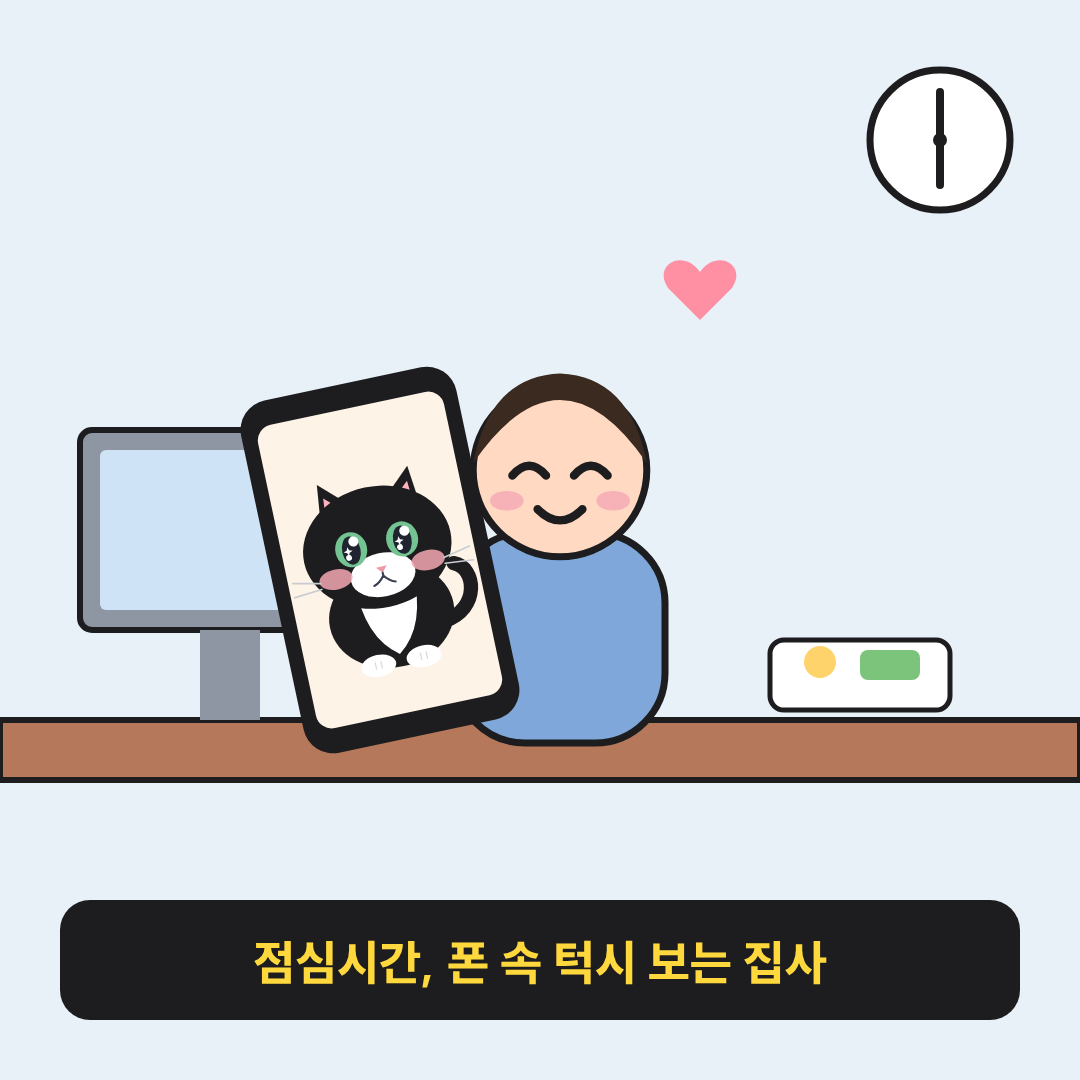
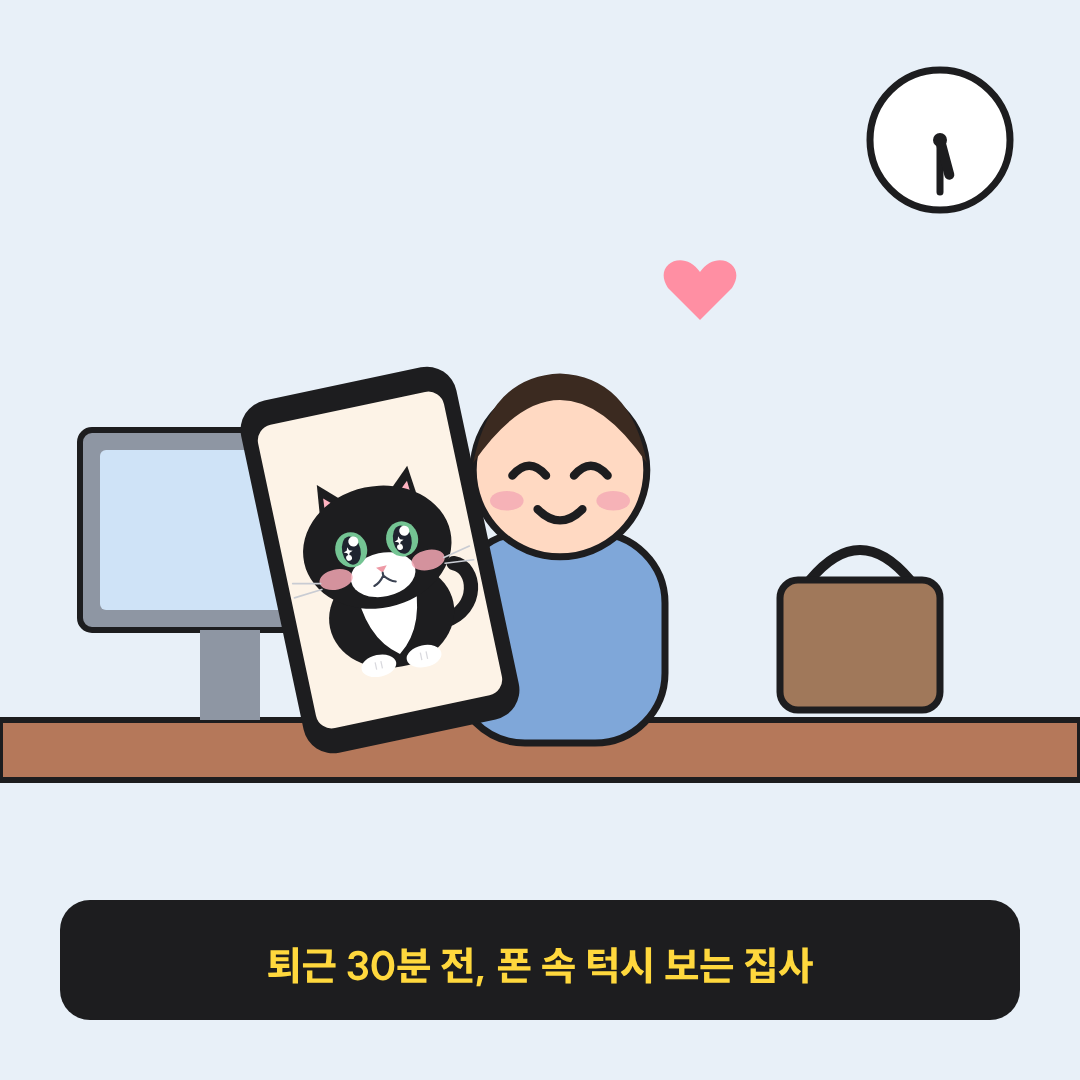
ep20: switch to just-before-leaving-work timing
Claude-Session: https://claude.ai/code/session_01ATNo1qDAA9qFJoR3V8USGH

Changed region(s): [[0.2444, 0.8556, 0.7639, 0.9167], [0.7028, 0.4889, 0.8861, 0.6722], [0.8556, 0.0917, 0.8861, 0.1833]]

diff --git a/scripts/toon/cat3-ep20.js b/scripts/toon/cat3-ep20.js
@@ -251,6 +251,10 @@ const desk = `<rect x="80" y="660" width="920" height="40" rx="10" fill="#b5785a
 const lamp = `<path d="M960 660 V420 l-80 -40" stroke="${INK}" stroke-width="12" fill="none"/><path d="M840 360 l80 40 l-40 50Z" fill="#ffd83d" stroke="${INK}" stroke-width="6"/>`;
 
 // ep20 같은 시간, 다른 장소
+function bag(x, y) {
+  return `<g transform="translate(${x},${y})"><path d="M-50 -60 q50 -60 100 0" stroke="${INK}" stroke-width="10" fill="none"/>
+    <rect x="-80" y="-60" width="160" height="130" rx="18" fill="#a0785a" stroke="${INK}" stroke-width="7"/></g>`;
+}
 function happyHead(x, y, s, shirt) {
   return `<g transform="translate(${x},${y}) scale(${s})">
     <rect x="-75" y="45" width="150" height="150" rx="50" fill="${shirt}" stroke="${INK}" stroke-width="5"/>
@@ -269,19 +273,18 @@ function catPhone(x, y, r) {
 const officeDesk = `<rect x="0" y="720" width="1080" height="60" fill="#b5785a" stroke="${INK}" stroke-width="6"/>
   <rect x="80" y="430" width="300" height="200" rx="12" fill="#8e96a3" stroke="${INK}" stroke-width="6"/>
   <rect x="100" y="450" width="260" height="160" rx="6" fill="#cfe3f7"/><rect x="200" y="630" width="60" height="90" fill="#8e96a3"/>
-  <g transform="translate(860,690)"><rect x="-90" y="-50" width="180" height="70" rx="14" fill="#fff" stroke="${INK}" stroke-width="5"/>
-  <circle cx="-40" cy="-28" r="16" fill="#ffd36b"/><rect x="0" y="-40" width="60" height="30" rx="8" fill="#7cc47c"/></g>`;
+  <g transform="translate(860,640)">${bag(0, 0)}</g>`;
 function chair(x, y) {
   return `<g transform="translate(${x},${y})"><rect x="-150" y="-260" width="300" height="300" rx="40" fill="#5b6b8c" stroke="${INK}" stroke-width="7"/>
     <rect x="-180" y="20" width="360" height="70" rx="30" fill="#4a5873" stroke="${INK}" stroke-width="7"/>
     <rect x="-14" y="90" width="28" height="110" fill="#3b4252"/><path d="M-120 210 h240" stroke="#3b4252" stroke-width="18" stroke-linecap="round"/></g>`;
 }
 const clock = (x, y) => `<g transform="translate(${x},${y})"><circle r="70" fill="#fff" stroke="${INK}" stroke-width="7"/>
-  <path d="M0 0V-48M0 0V45" stroke="${INK}" stroke-width="8" stroke-linecap="round"/><circle r="7" fill="${INK}"/></g>`;
+  <path d="M0 0V52" stroke="${INK}" stroke-width="7" stroke-linecap="round"/><path d="M0 0V-36" stroke="${INK}" stroke-width="10" stroke-linecap="round" transform="rotate(165)"/><circle r="7" fill="${INK}"/></g>`;
 const p1 = panelF('#e8f0f8',
   officeDesk + clock(940, 140) + happyHead(560, 470, 1.4, '#7fa7d9') + catPhone(380, 560, -12) +
   heart(700, 280, 0.8, '#ff8fa3'),
-  '점심시간, 폰 속 턱시 보는 집사');
+  '퇴근 30분 전, 폰 속 턱시 보는 집사');
 const p2 = panelF('#fdf3e7',
   clock(940, 140) + `<rect x="0" y="820" width="1080" height="80" fill="#f2dcc4"/>` + chair(540, 560) + cat(540, 470, 0.62, 'wide') +
   bubble(90, 60, 520, '자리 맡아 둠', 330),
@@ -290,8 +293,8 @@ const p3 = panelF('#ffffff',
   `<rect x="0" y="0" width="540" height="880" fill="#e8f0f8"/><rect x="540" y="0" width="540" height="880" fill="#fdf3e7"/>
    <path d="M540 0V880" stroke="${INK}" stroke-width="8"/>` +
   happyHead(270, 520, 1.3, '#7fa7d9') + cat(810, 560, 0.6, 'sparkle', { mouthOpen: true }) +
-  bubble(40, 120, 440, '보고 싶다', 220) + bubble(580, 120, 460, '빨리 와라냥', 760),
-  '12시 30분, 서로 생각 중');
+  bubble(40, 120, 440, '곧 간다!', 220) + bubble(580, 120, 460, '빨리 와라냥', 760),
+  '곧 퇴근, 서로 생각 중');
 (async () => {
   const browser = await chromium.launch();
   const page = await browser.newPage({ viewport: { width: 1080, height: 1080 } });
